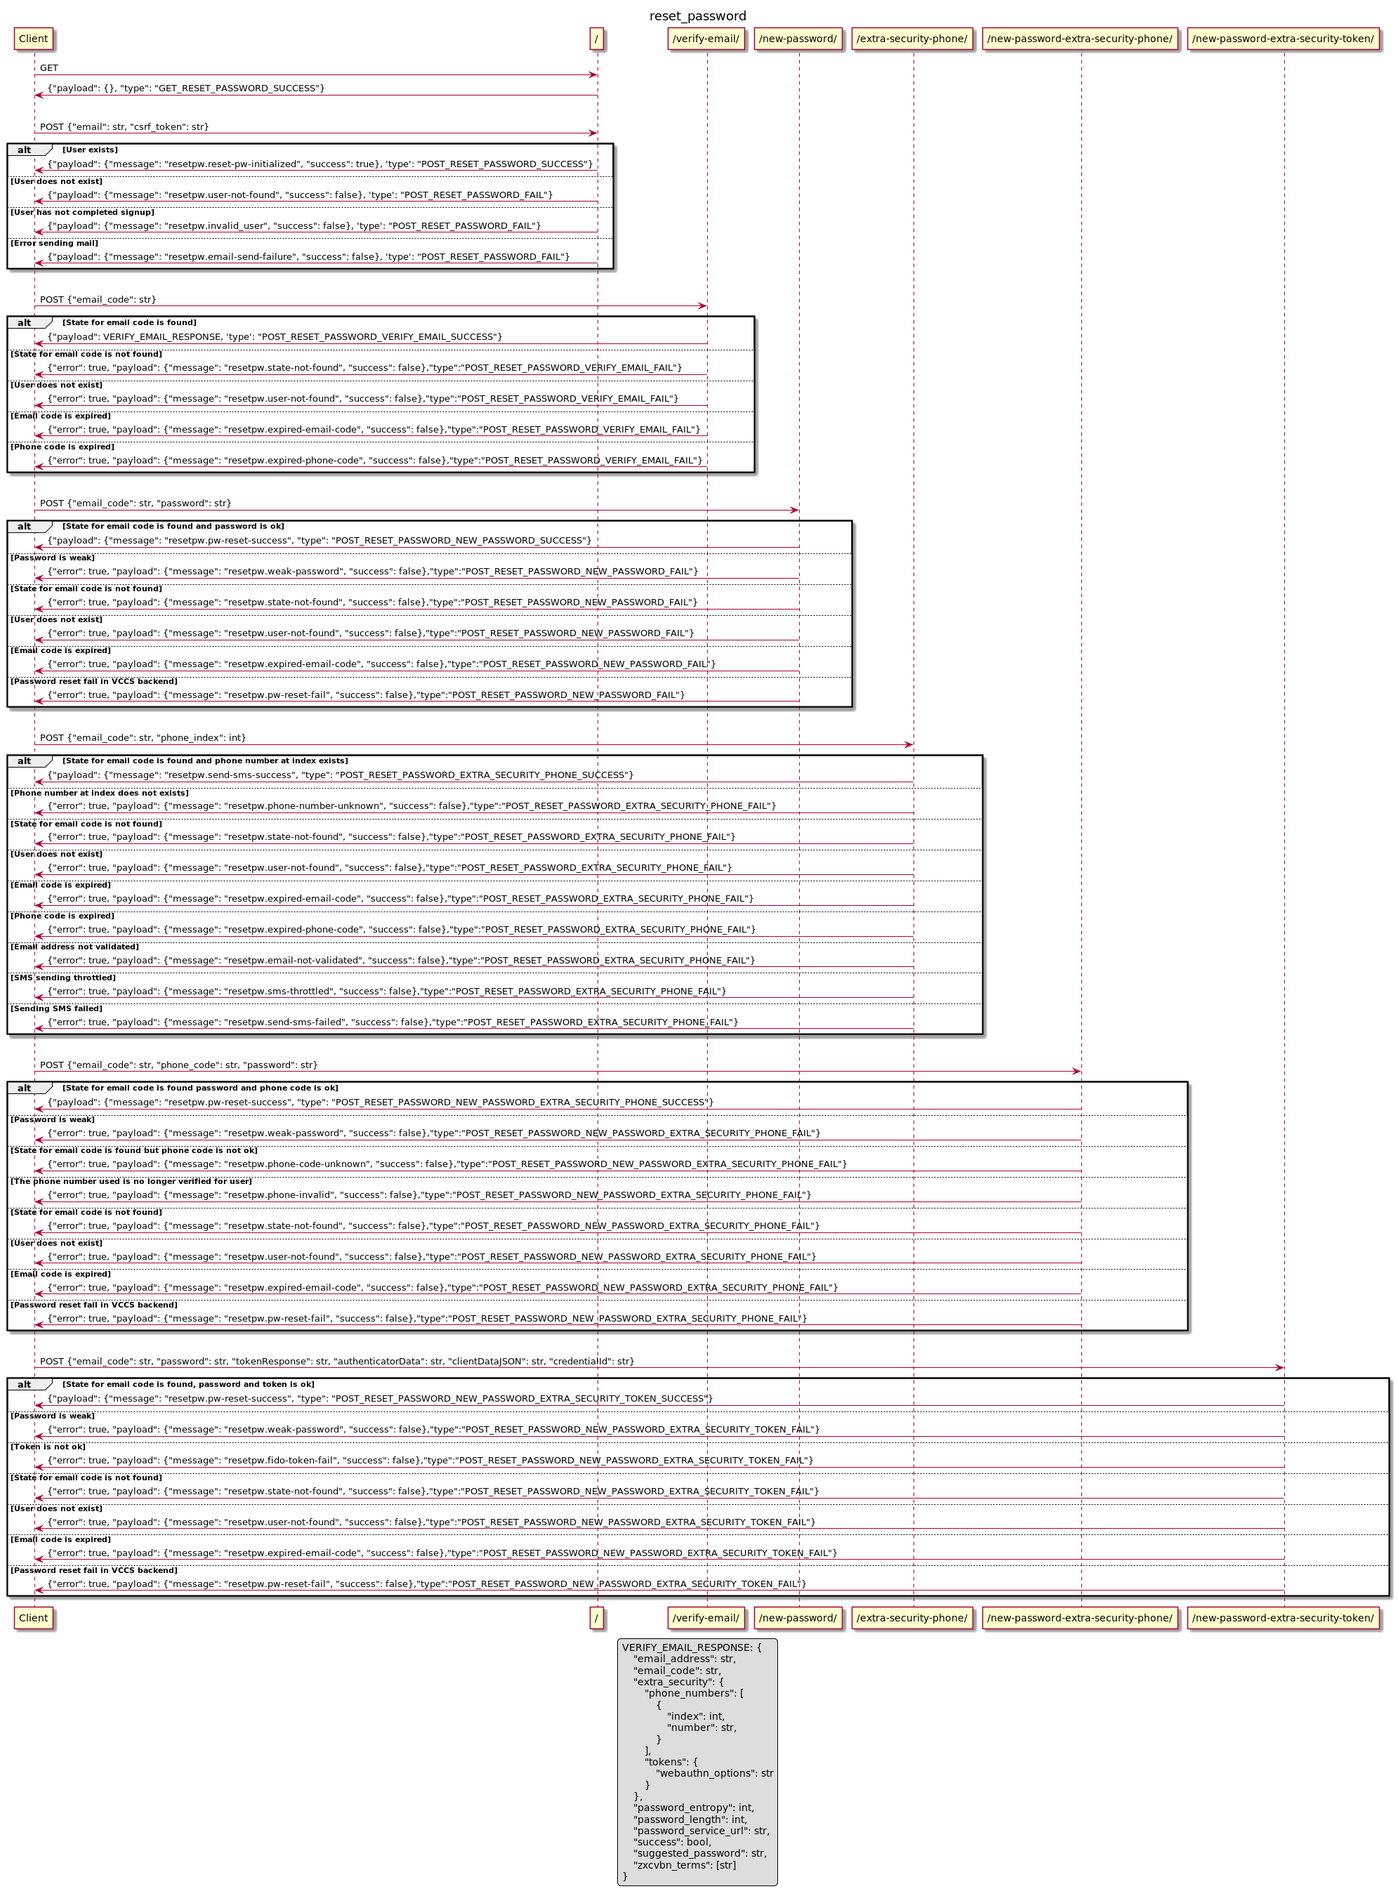
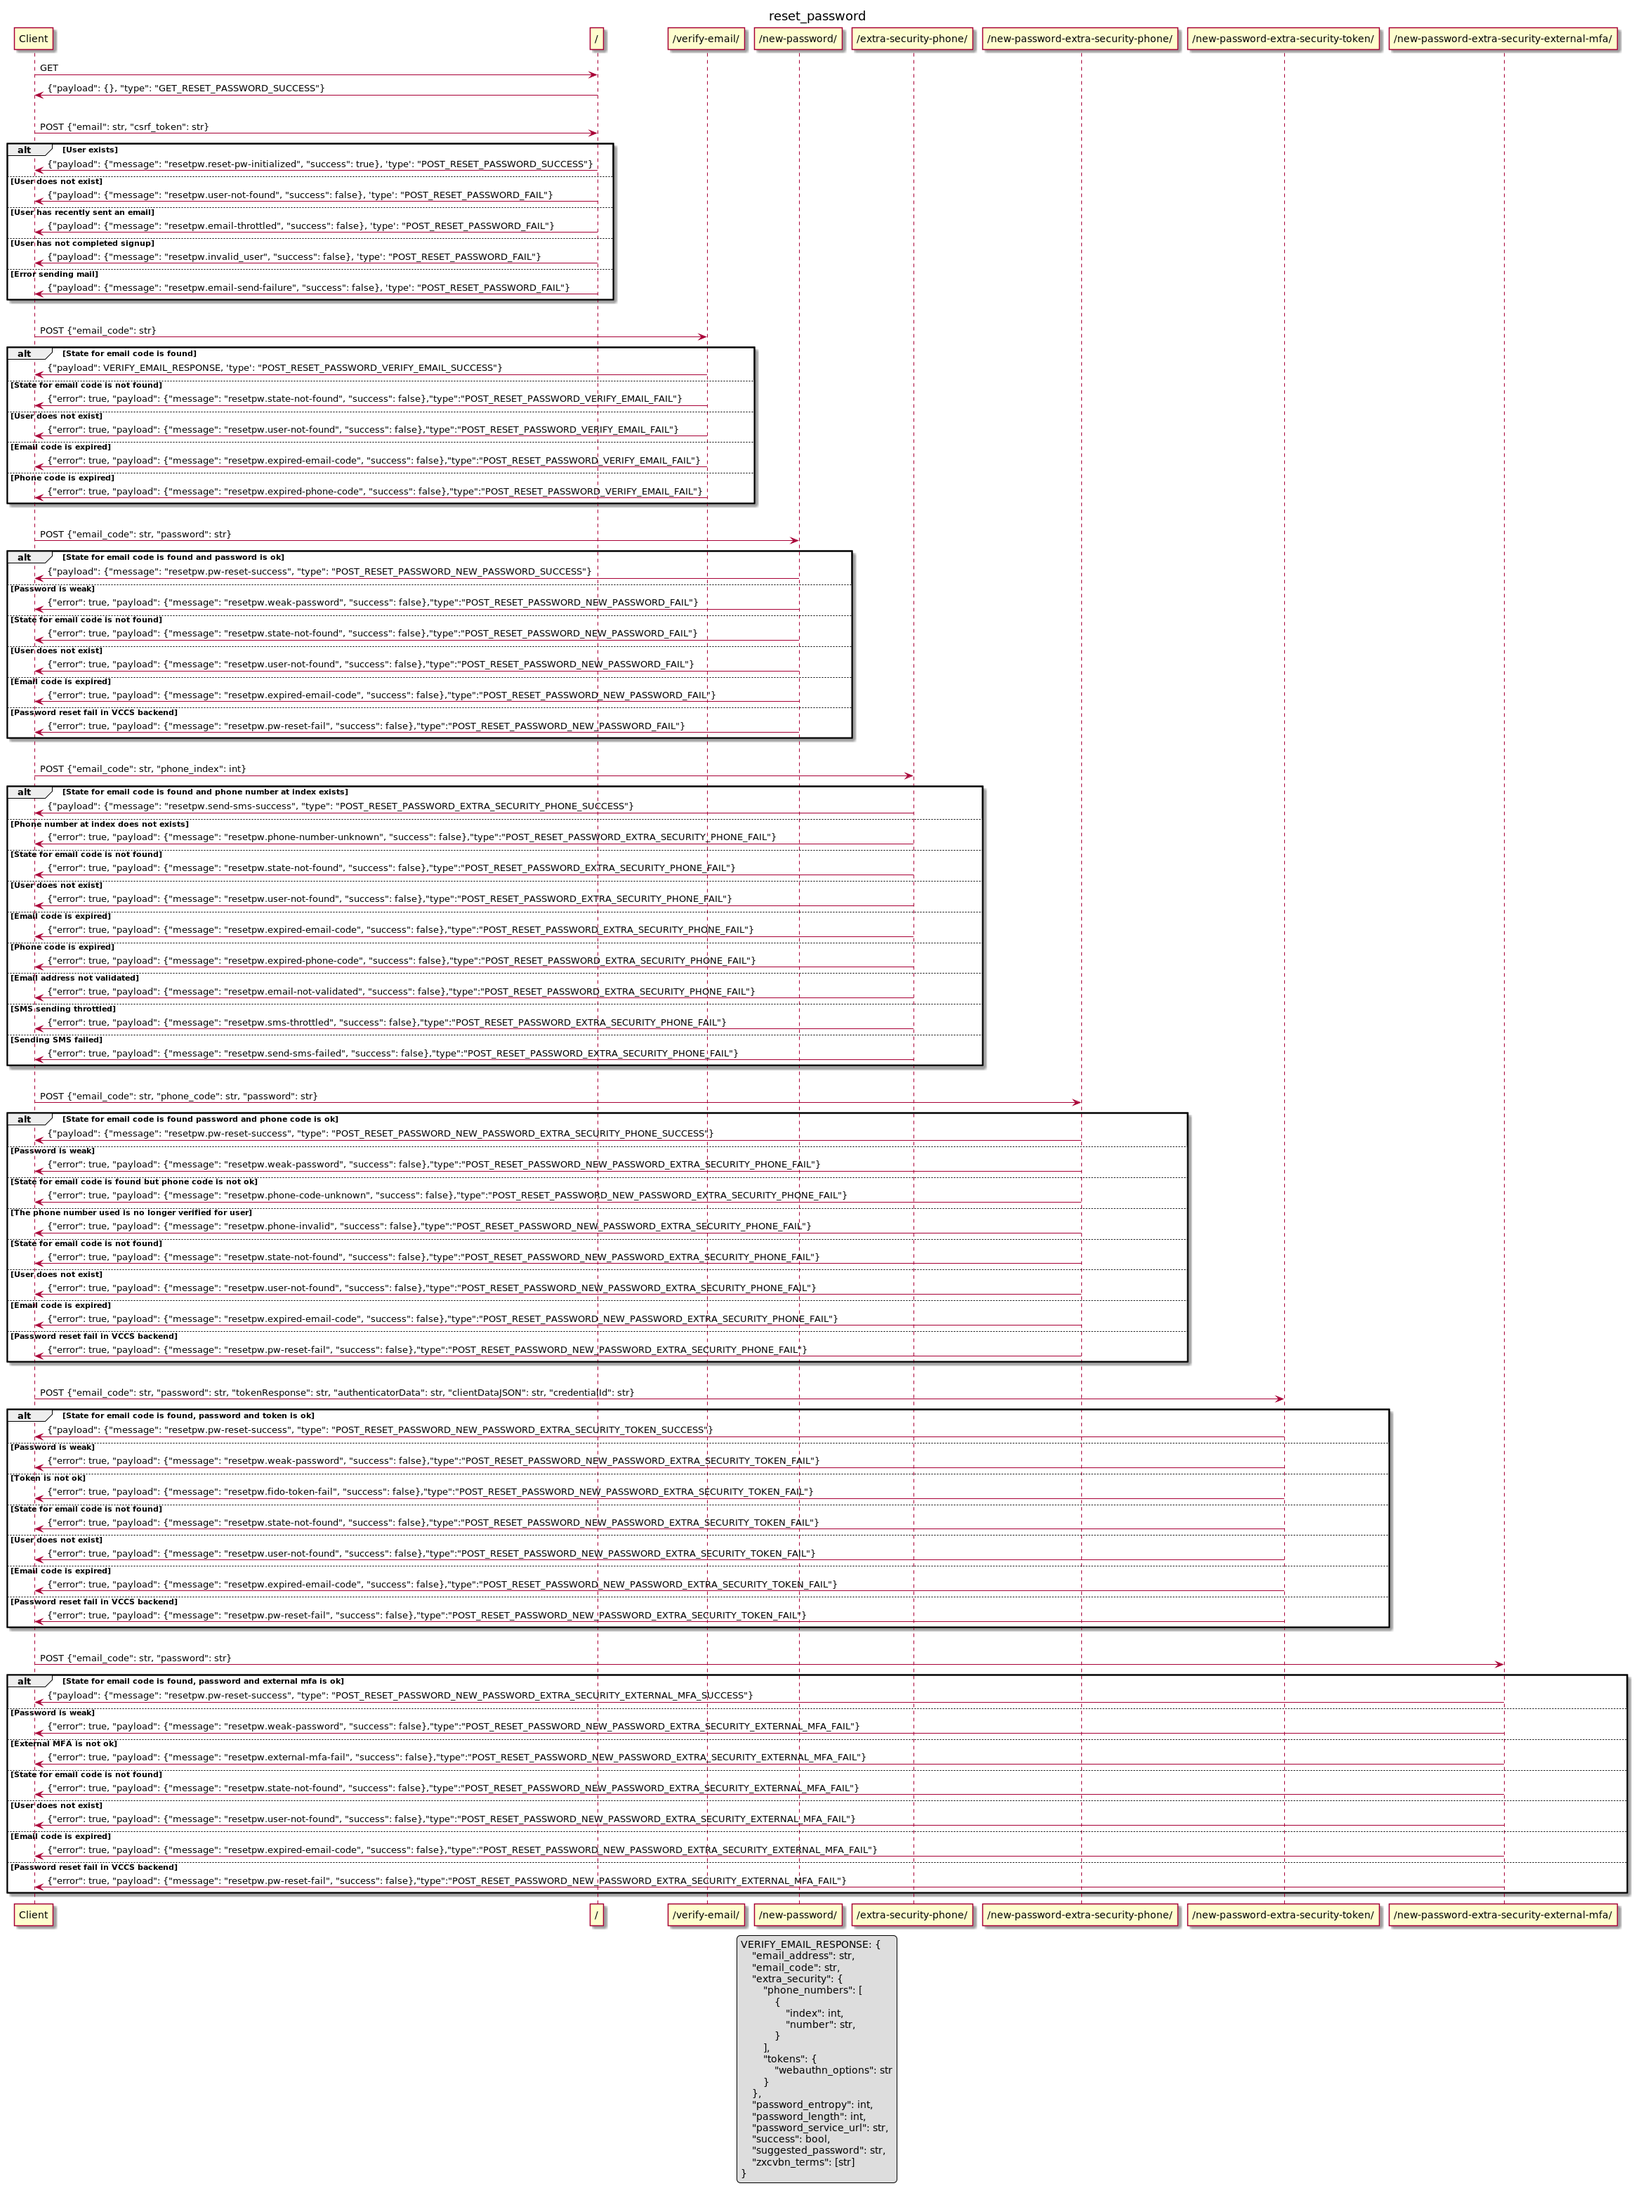
Added external mfa view for reset_password

diff --git a/src/eduid/webapp/reset_password/tests/test_app.py b/src/eduid/webapp/reset_password/tests/test_app.py
@@ -38,6 +38,7 @@ from urllib.parse import quote_plus
 
 from flask import url_for
 
+from eduid.common.misc.timeutil import utc_now
 from eduid.userdb.credentials import Password, Webauthn
 from eduid.userdb.exceptions import DocumentDoesNotExist, UserHasNotCompletedSignup
 from eduid.userdb.fixtures.fido_credentials import webauthn_credential as sample_credential
@@ -49,6 +50,7 @@ from eduid.webapp.common.authn.tests.test_fido_tokens import (
     SAMPLE_WEBAUTHN_FIDO2STATE,
     SAMPLE_WEBAUTHN_REQUEST,
 )
+from eduid.webapp.common.session.namespaces import MfaAction
 from eduid.webapp.reset_password.app import ResetPasswordApp, init_reset_password_app
 from eduid.webapp.reset_password.helpers import (
     ResetPwMsg,
@@ -400,6 +402,68 @@ class ResetPasswordTests(EduidAPITestCase):
 
         return c.post(url, data=json.dumps(data), content_type=self.content_type_json)
 
+    @patch('eduid.webapp.common.authn.vccs.get_vccs_client')
+    @patch('eduid.common.rpc.am_relay.AmRelay.request_user_sync')
+    def _post_reset_password_secure_external_mfa(
+        self,
+        mock_request_user_sync: Any,
+        mock_get_vccs_client: Any,
+        data1: Optional[dict] = None,
+        data2: Optional[dict] = None,
+        external_mfa_state: Optional[dict] = None,
+        custom_password: Optional[str] = None,
+    ):
+        """
+        Test resetting the password with extra security via a external MFA.
+
+        :param data1: to control what email is sent to create the state and start the process
+        :param data2: to control the data POSTed to finally reset the password
+        :param external_mfa_state: to control the external mfa state kept in the session
+        """
+        mock_request_user_sync.side_effect = self.request_user_sync
+        mock_get_vccs_client.return_value = TestVCCSClient()
+
+        user = self.app.central_userdb.get_user_by_eppn(self.test_user_eppn)
+
+        response = self._post_email_address(data1=data1)
+        state = self.app.password_reset_state_db.get_state_by_eppn(self.test_user_eppn)
+        assert isinstance(state, ResetPasswordEmailState)
+
+        with self.app.test_request_context():
+            state.extra_security = get_extra_security_alternatives(user)
+        state.email_code.is_verified = True
+        self.app.password_reset_state_db.save(state)
+
+        with self.app.test_request_context():
+            url = url_for('reset_password.set_new_pw_extra_security_external_mfa', _external=True)
+
+        if external_mfa_state is not None:
+            mfa_action = MfaAction(**external_mfa_state)
+        else:
+            mfa_action = MfaAction(
+                success=True,
+                issuer='Test external MFA issuer',
+                authn_instant=str(utc_now().timestamp()),
+                authn_context='test authn context',
+            )
+
+        with self.session_cookie_anon(self.browser) as c:
+            with c.session_transaction() as sess:
+                sess._namespaces.mfa_action = mfa_action
+                new_password = generate_suggested_password(self.app.conf.password_length)
+                sess.reset_password.generated_password_hash = hash_password(new_password)
+            data = {
+                'email_code': state.email_code.code,
+                'password': custom_password or new_password,
+                'csrf_token': response.json['payload']['csrf_token'],
+            }
+            if data2 == {}:
+                data = {}
+            elif data2 is not None:
+                data.update(data2)
+
+        return c.post(url, data=json.dumps(data), content_type=self.content_type_json)
+
     def _get_email_code_backdoor(self, data1: Optional[dict] = None):
         """
         Create a password rest state for the test user, grab the created verification code from the db,
@@ -468,6 +532,14 @@ class ResetPasswordTests(EduidAPITestCase):
             return client.get(f'/get-phone-code?eppn={eppn}')
 
     # actual tests
+    def test_correct_user_setup(self):
+        # Check that user has verified data
+        user = self.app.central_userdb.get_user_by_eppn(self.test_user_eppn)
+        verified_phone_numbers = user.phone_numbers.verified.to_list()
+        self.assertEqual(1, len(verified_phone_numbers))
+        verified_nins = user.nins.verified.to_list()
+        self.assertEqual(2, len(verified_nins))
+
     def test_get_zxcvbn_terms(self):
         with self.app.test_request_context():
             terms = get_zxcvbn_terms(self.test_user)
@@ -875,6 +947,30 @@ class ResetPasswordTests(EduidAPITestCase):
         response = self._post_reset_password_secure_token(data2=data2)
         self._check_error_response(
             response, type_='POST_RESET_PASSWORD_NEW_PASSWORD_EXTRA_SECURITY_TOKEN_FAIL', msg=ResetPwMsg.resetpw_weak
+        )
+
+    def test_post_reset_password_secure_external_mfa(self):
+        response = self._post_reset_password_secure_external_mfa()
+        self._check_success_response(
+            response,
+            type_='POST_RESET_PASSWORD_NEW_PASSWORD_EXTRA_SECURITY_EXTERNAL_MFA_SUCCESS',
+            msg=ResetPwMsg.pw_reset_success,
+        )
+
+        # check that the user still has verified data
+        user = self.app.central_userdb.get_user_by_eppn(self.test_user_eppn)
+        verified_phone_numbers = user.phone_numbers.verified.to_list()
+        self.assertEqual(1, len(verified_phone_numbers))
+        verified_nins = user.nins.verified.to_list()
+        self.assertEqual(2, len(verified_nins))
+
+    def test_post_reset_password_secure_external_mfa_no_mfa_auth(self):
+        external_mfa_state = {'success': False, 'issuer': None}
+        response = self._post_reset_password_secure_external_mfa(external_mfa_state=external_mfa_state)
+        self._check_error_response(
+            response,
+            type_='POST_RESET_PASSWORD_NEW_PASSWORD_EXTRA_SECURITY_EXTERNAL_MFA_FAIL',
+            msg=ResetPwMsg.external_mfa_fail,
         )
 
     def test_post_reset_password_secure_email_timeout(self):

diff --git a/src/eduid/webapp/reset_password/helpers.py b/src/eduid/webapp/reset_password/helpers.py
@@ -113,6 +113,8 @@ class ResetPwMsg(TranslatableMsg):
     invalid_user = 'resetpw.invalid-user'
     # extra security with fido tokens failed - wrong token
     fido_token_fail = 'resetpw.fido-token-fail'
+    # extra security with external MFA service failed
+    external_mfa_fail = 'resetpw.external-mfa-fail'
     # The password chosen is too weak
     resetpw_weak = 'resetpw.weak-password'
 
@@ -266,15 +268,17 @@ def check_password(password: str, hashed: Optional[str]) -> bool:
     return bcrypt.checkpw(password, hashed)
 
 
-def extra_security_used(state: ResetPasswordState, security_key_used: bool = False) -> bool:
+def extra_security_used(
+    state: Union[ResetPasswordEmailState, ResetPasswordEmailAndPhoneState], mfa_used: bool = False
+) -> bool:
     """
     Check if any extra security method was used
 
     :param state: Password reset state
-    :param security_key_used: If a security key was used
+    :param mfa_used: If a security key was used
     :return: True|False
     """
-    if security_key_used:
+    if state.email_code.is_verified and mfa_used:
         return True
     if isinstance(state, ResetPasswordEmailAndPhoneState):
         return state.email_code.is_verified and state.phone_code.is_verified
@@ -310,13 +314,16 @@ def unverify_user(user: ResetPasswordUser) -> None:
 
 
 def reset_user_password(
-    user: User, state: ResetPasswordState, password: str, security_key_used: bool = False
+    user: User,
+    state: Union[ResetPasswordEmailState, ResetPasswordEmailAndPhoneState],
+    password: str,
+    mfa_used: bool = False,
 ) -> FluxData:
     """
     :param user: the user
     :param state: Password reset state
     :param password: Plain text password
-    :param security_key_used: If a security key was used as extra security
+    :param mfa_used: If a security key or external MFA was used as extra security
     """
     # Check the the password complexity is enough
     user_info = get_zxcvbn_terms(user)
@@ -333,7 +340,7 @@ def reset_user_password(
     reset_password_user = ResetPasswordUser.from_user(user, private_userdb=current_app.private_userdb)
 
     # If no extra security is used, all verified information (except email addresses) is set to not verified
-    if not extra_security_used(state, security_key_used):
+    if not extra_security_used(state, mfa_used):
         current_app.stats.count(name='no_extra_security', value=1)
         current_app.logger.info(f'No extra security used by user {user}')
         unverify_user(reset_password_user)
@@ -352,7 +359,11 @@ def reset_user_password(
         current_app.logger.error(f'Reset password failed for user {reset_password_user}')
         return error_response(message=ResetPwMsg.pw_reset_fail)
 
-    reset_password_user.terminated = None
+    # Undo termination if user is terminated
+    if reset_password_user.terminated is not None:
+        current_app.logger.info(f'Revoking termination for user: {user.terminated}')
+        reset_password_user.terminated = None
+
     save_and_sync_user(reset_password_user)
     current_app.stats.count(name='password_reset_success', value=1)
     current_app.logger.info(f'Reset password successful for user {reset_password_user}')

diff --git a/src/eduid/webapp/reset_password/views/reset_password.py b/src/eduid/webapp/reset_password/views/reset_password.py
@@ -452,7 +452,31 @@ def set_new_pw_extra_security_token(
     if not success:
         return error_response(message=ResetPwMsg.fido_token_fail)
 
-    return reset_user_password(user=context.user, state=context.state, password=password, security_key_used=success)
+    return reset_user_password(user=context.user, state=context.state, password=password, mfa_used=success)
+
+
+@reset_password_views.route('/new-password-extra-security-external-mfa/', methods=['POST'])
+@UnmarshalWith(NewPasswordSecureTokenRequestSchema)
+@MarshalWith(ResetPasswordResponseSchema)
+def set_new_pw_extra_security_external_mfa(
+    email_code: str, password: str,
+):
+    try:
+        context = get_context(email_code=email_code)
+    except StateException as e:
+        return error_response(message=e.msg)
+
+    if session.mfa_action.success is not True:  # Explicit check that success is the boolean True
+        return error_response(message=ResetPwMsg.external_mfa_fail)
+
+    current_app.logger.info(f'User used external MFA service {session.mfa_action.issuer} as extra security')
+    current_app.logger.info(
+        f'Issued: {session.mfa_action.authn_instant}. Authn context: {session.mfa_action.authn_context}'
+    )
+    # Clear mfa_action from session
+    del session.mfa_action
+
+    return reset_user_password(user=context.user, state=context.state, password=password, mfa_used=True)
 
 
 @reset_password_views.route('/get-email-code', methods=['GET'])
